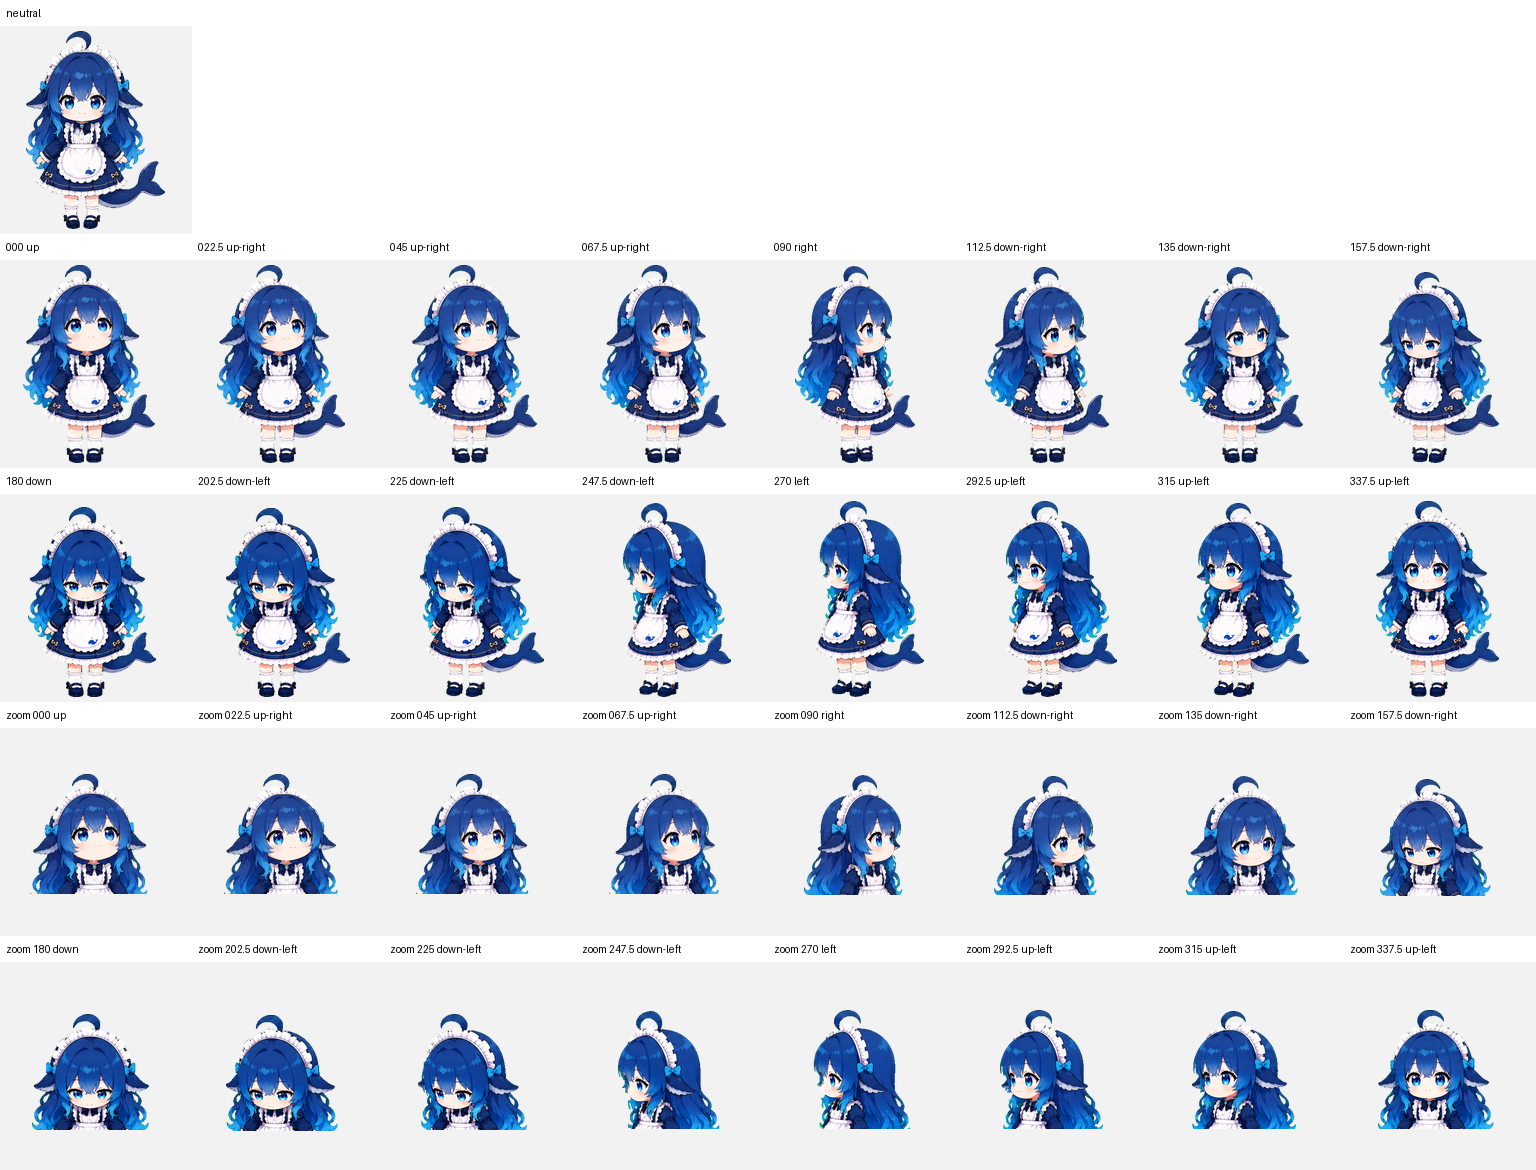
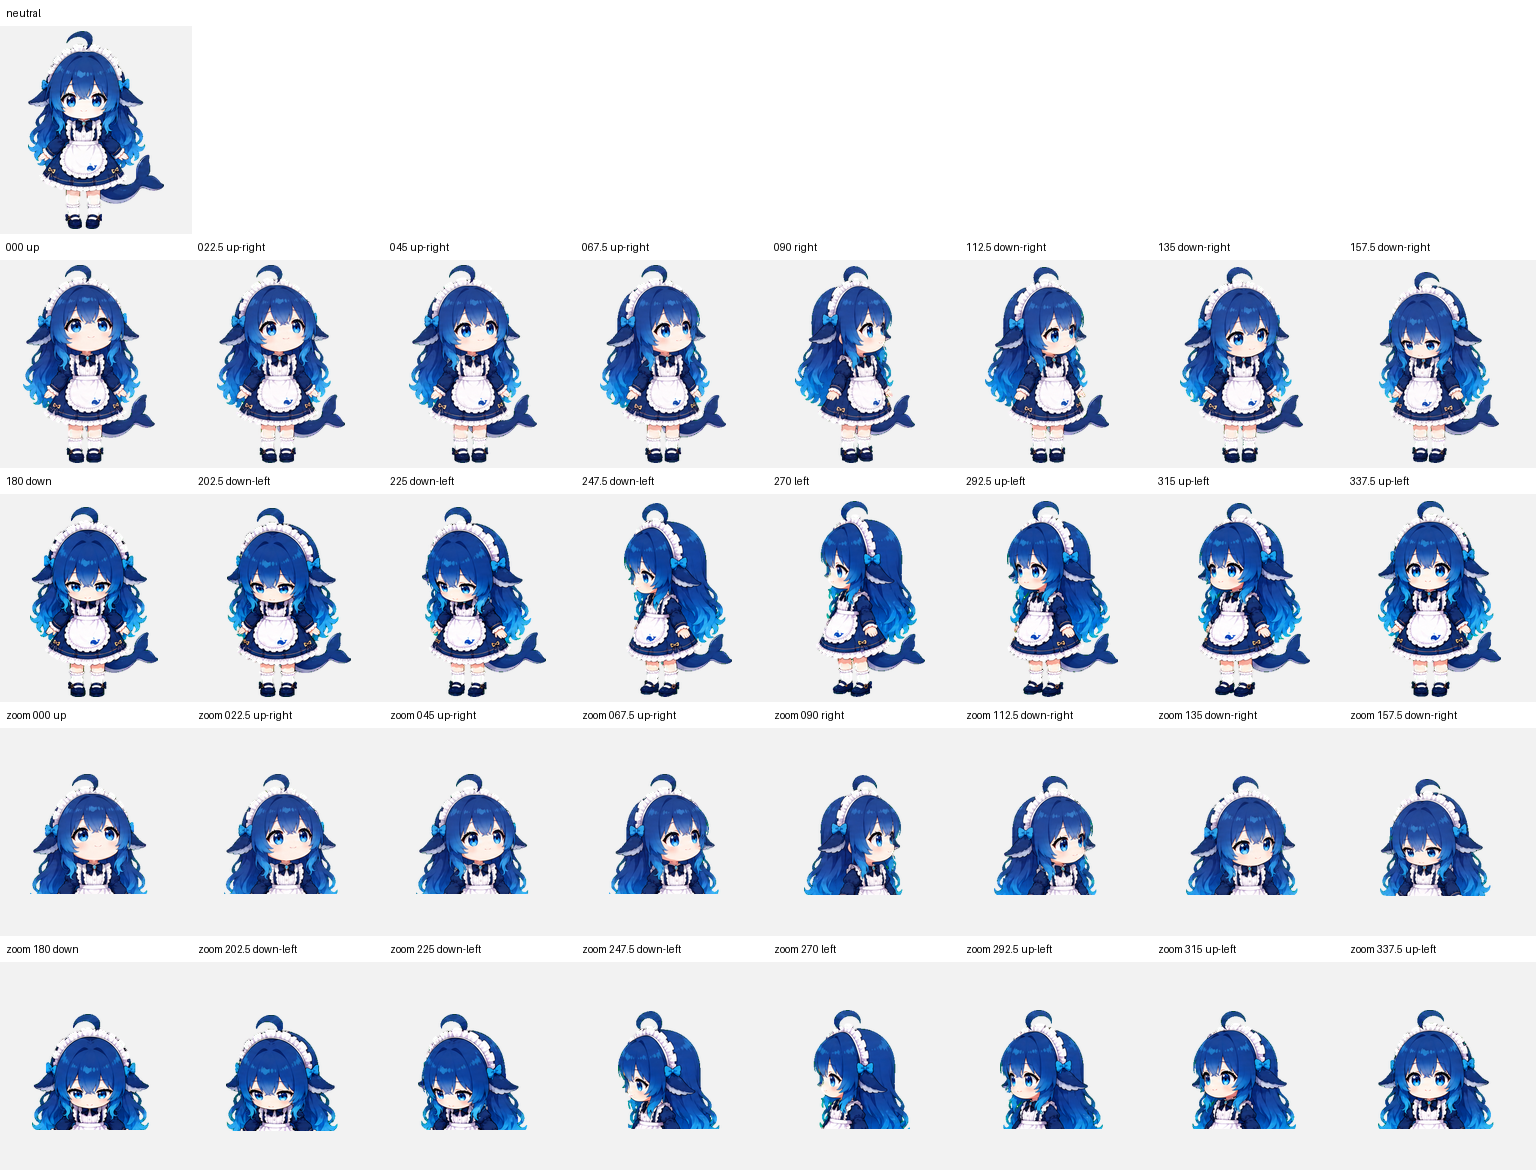
布吉岛

diff --git a/README.md b/README.md
@@ -8,6 +8,8 @@
 
 - Codex Pet v2 格式
 - 9 组标准状态动画：待机、左右移动、挥手、跳跃、失败、等待、工作和审查
+- 待机包含呼吸、眨眼、轻歪头和鲸尾摆动
+- 工作状态使用托腮、抬眼、点头和鲸尾收放表现思考过程
 - 16 个环视方向
 - 透明背景 WebP 精灵图
 - 已通过尺寸、逐帧、方向语义和连续性检查
